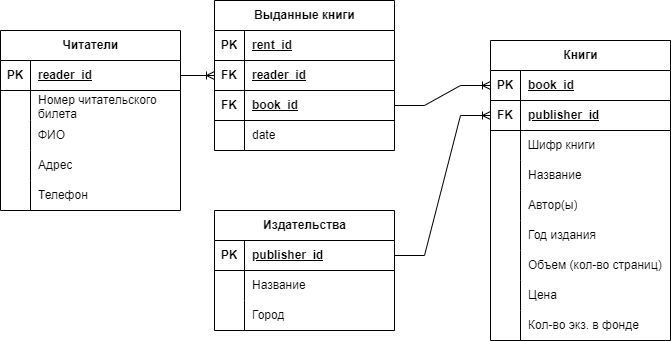
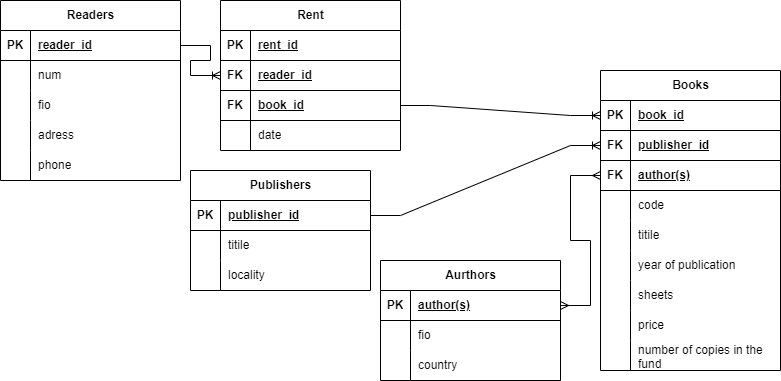
ispravlennoye v2.0

diff --git a/README.md b/README.md
@@ -7,3 +7,5 @@
 3) Связь "Издательства" - "Книги" выбрана "одного ко многим", так как одно издательство
 может издавать неограниченное количество книг, но при этом одна конкретная книга (с определенным 
 количеством страниц, годом изадания и ценой) не может быть издана сразу несколькими издательствами.
+4) Связь "Авторы" - "Книги" выбрана "от многих ко многим", так как один человек может быть автором 
+нескольких книг, а у одной книги может быть несколько авторов.
